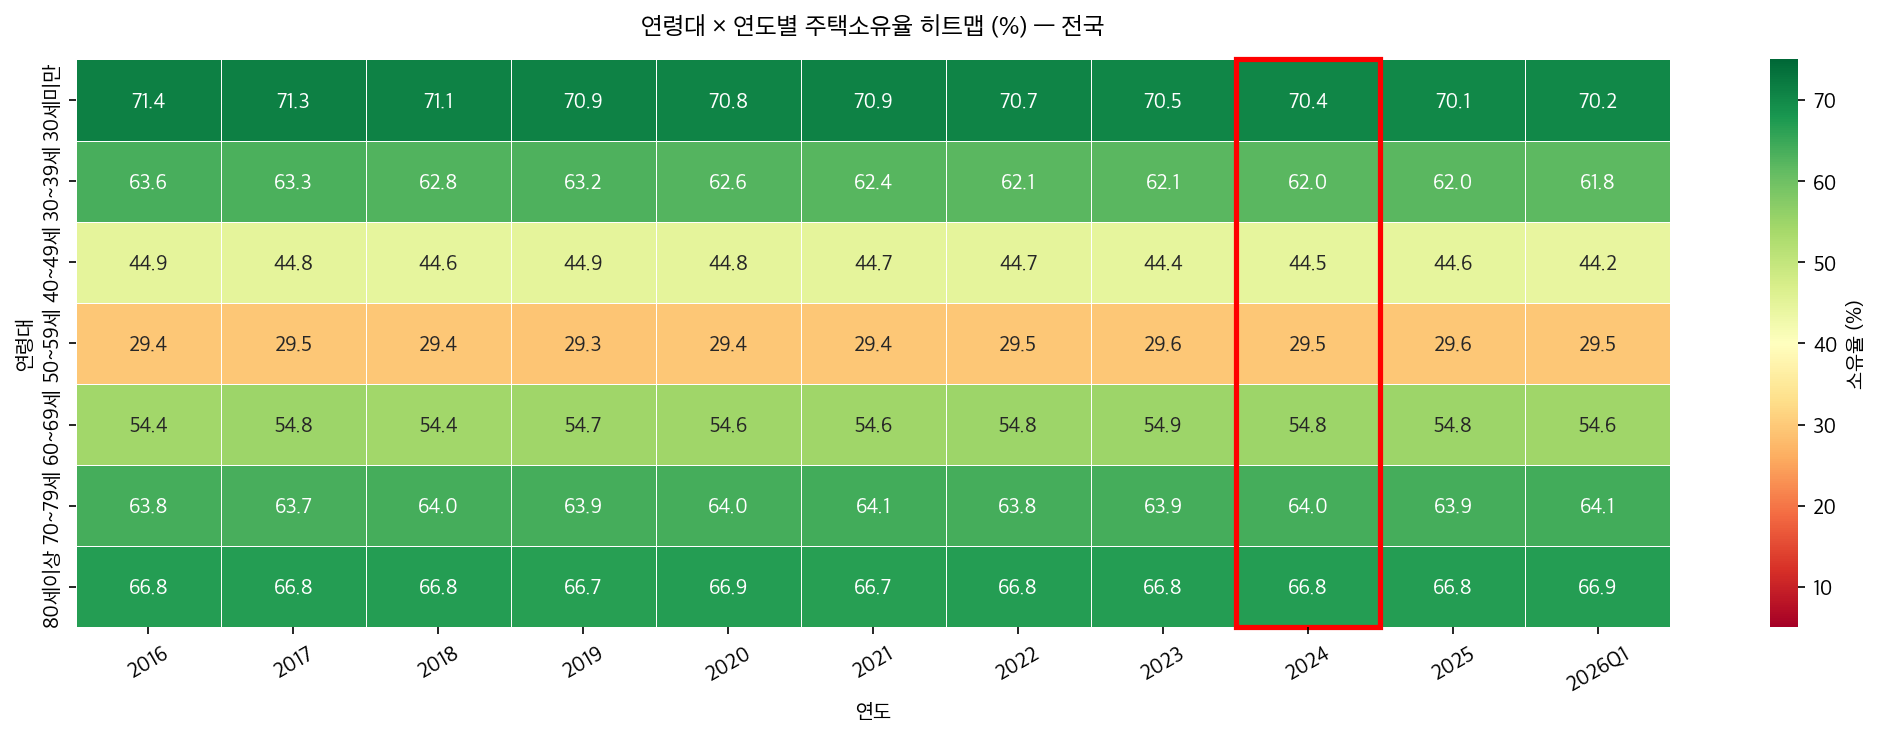
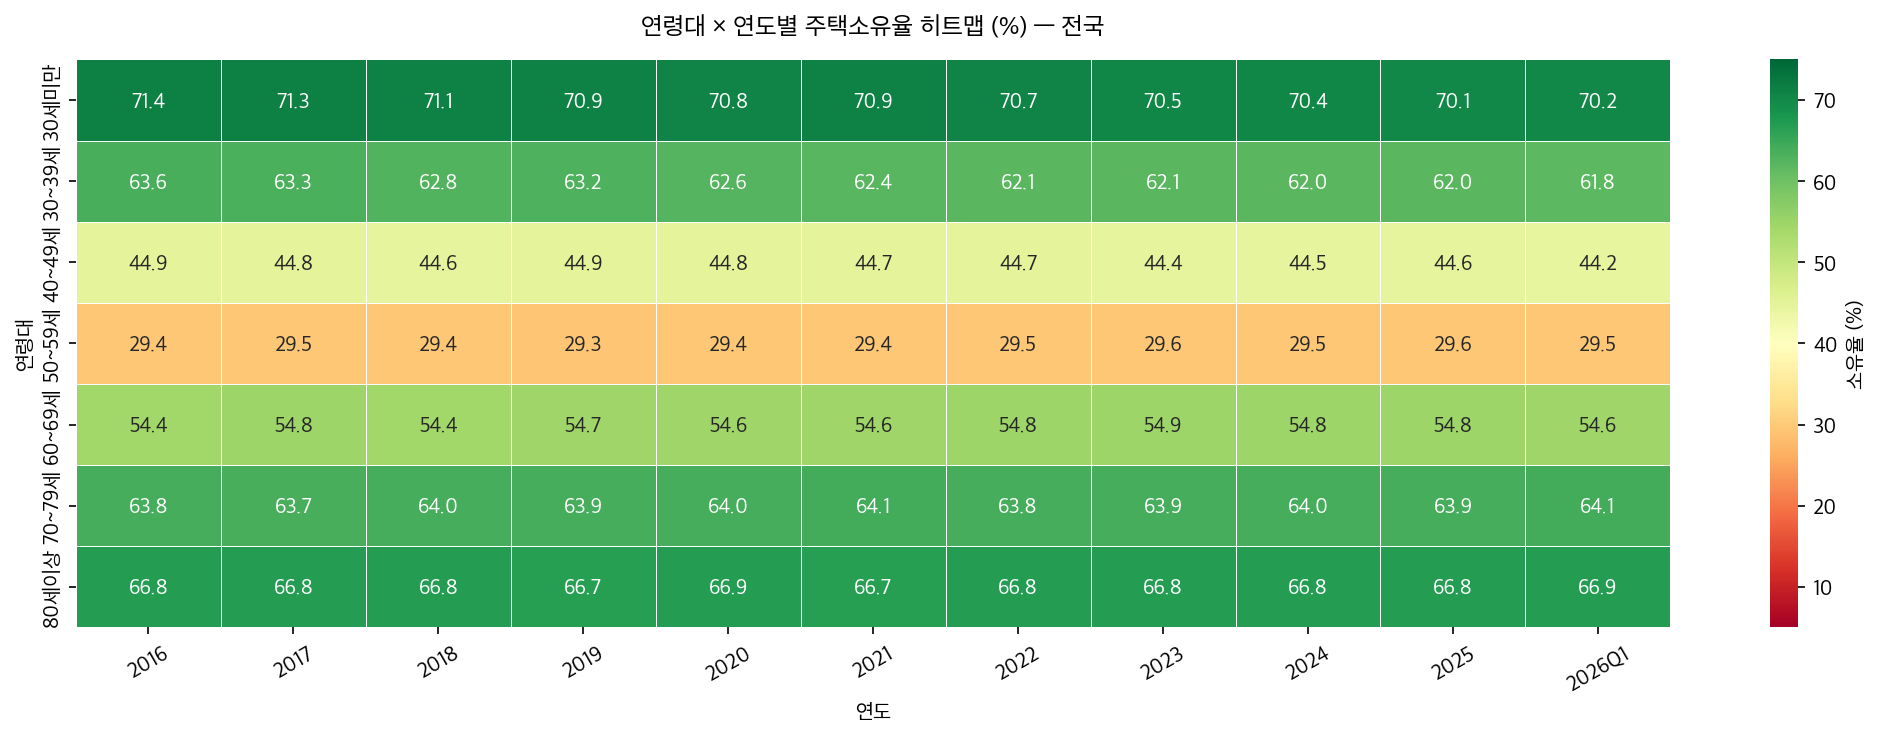
fix: 연령대×연도 히트맵 2024 빨간 박스 제거

diff --git a/housing/housing_eda.py b/housing/housing_eda.py
@@ -533,9 +533,6 @@ sns.heatmap(hm_age, annot=True, fmt=".1f", cmap="RdYlGn", ax=ax,
             cbar_kws={"label": "소유율 (%)"}, linewidths=0.4, vmin=5, vmax=75)
 ax.set_title("연령대 × 연도별 주택소유율 히트맵 (%) — 전국", pad=12)
 ax.tick_params(axis="x", rotation=30)
-idx2024 = [str(y) for y in YEARS].index("2024")
-ax.add_patch(plt.Rectangle((idx2024, 0), 1, len(age_order),
-             fill=False, edgecolor="red", lw=2.5, clip_on=False))
 fig.tight_layout()
 save(fig, "12_연령대_연도_소유율_히트맵.png")
 
